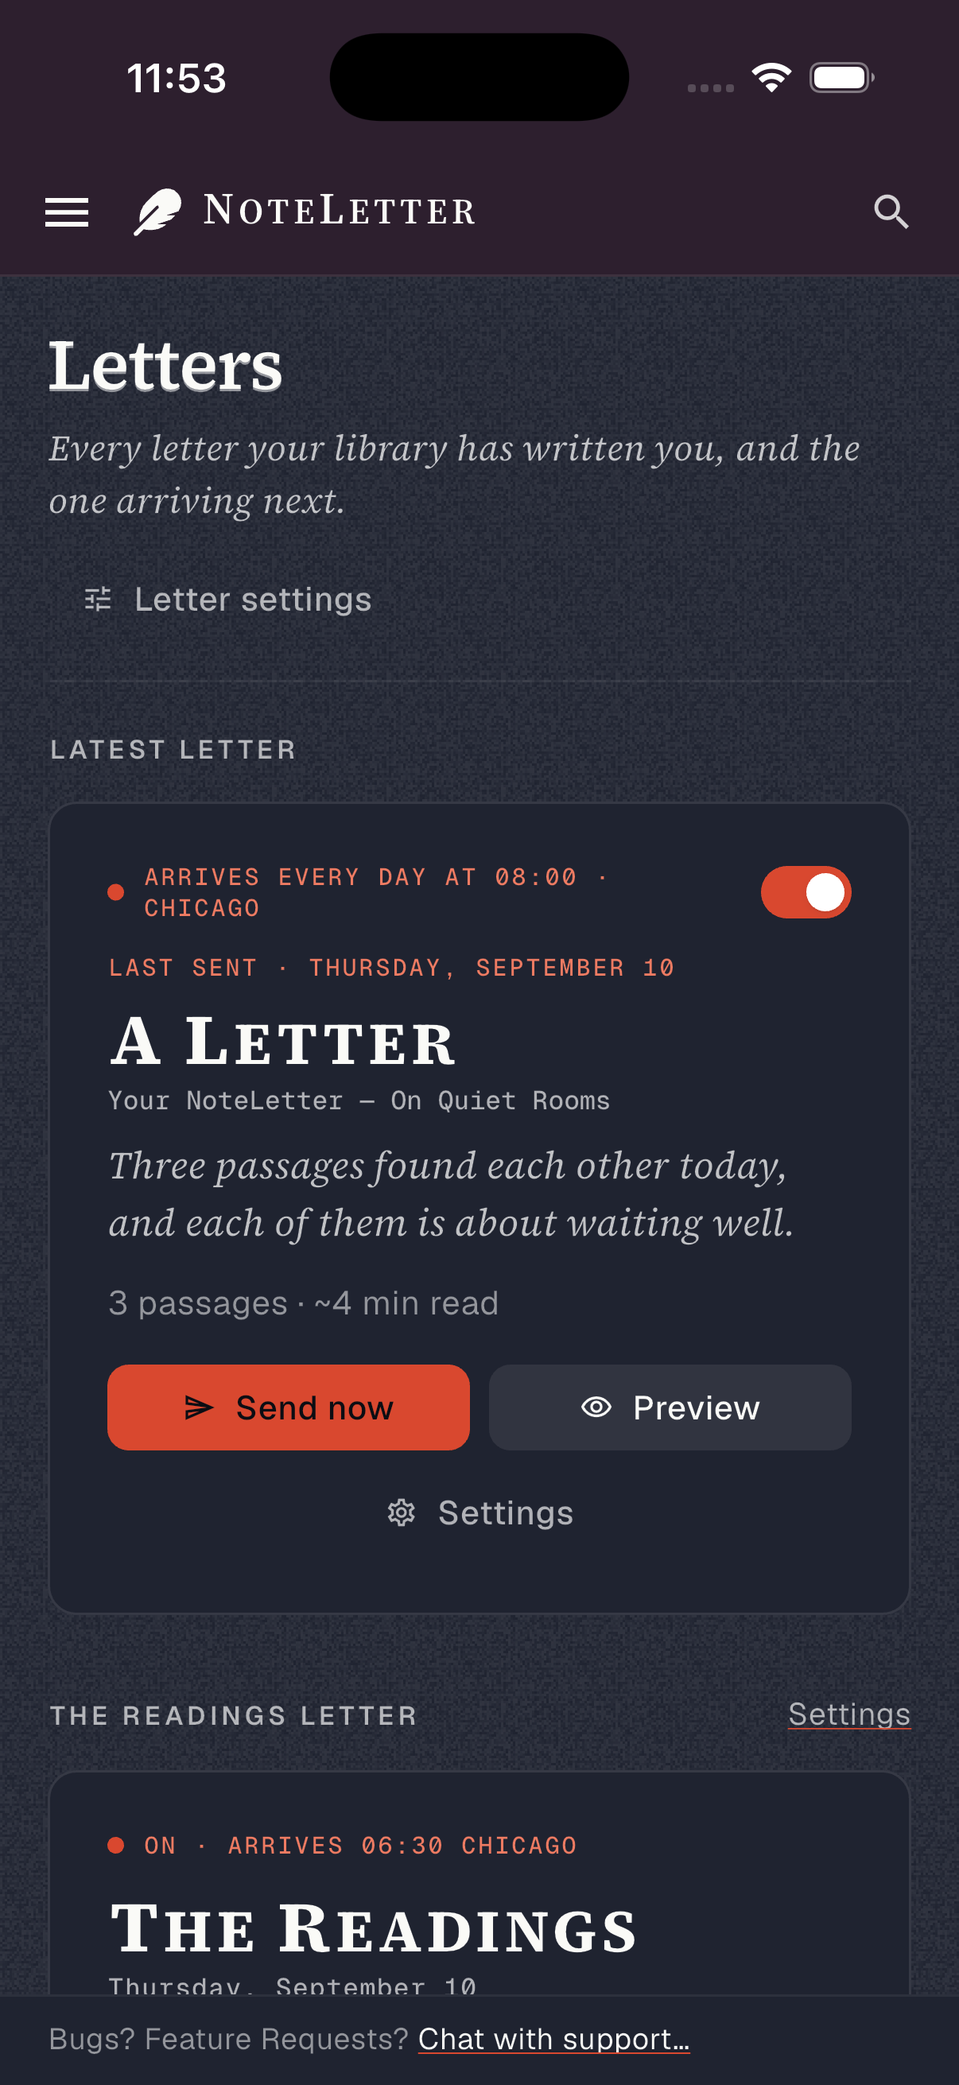
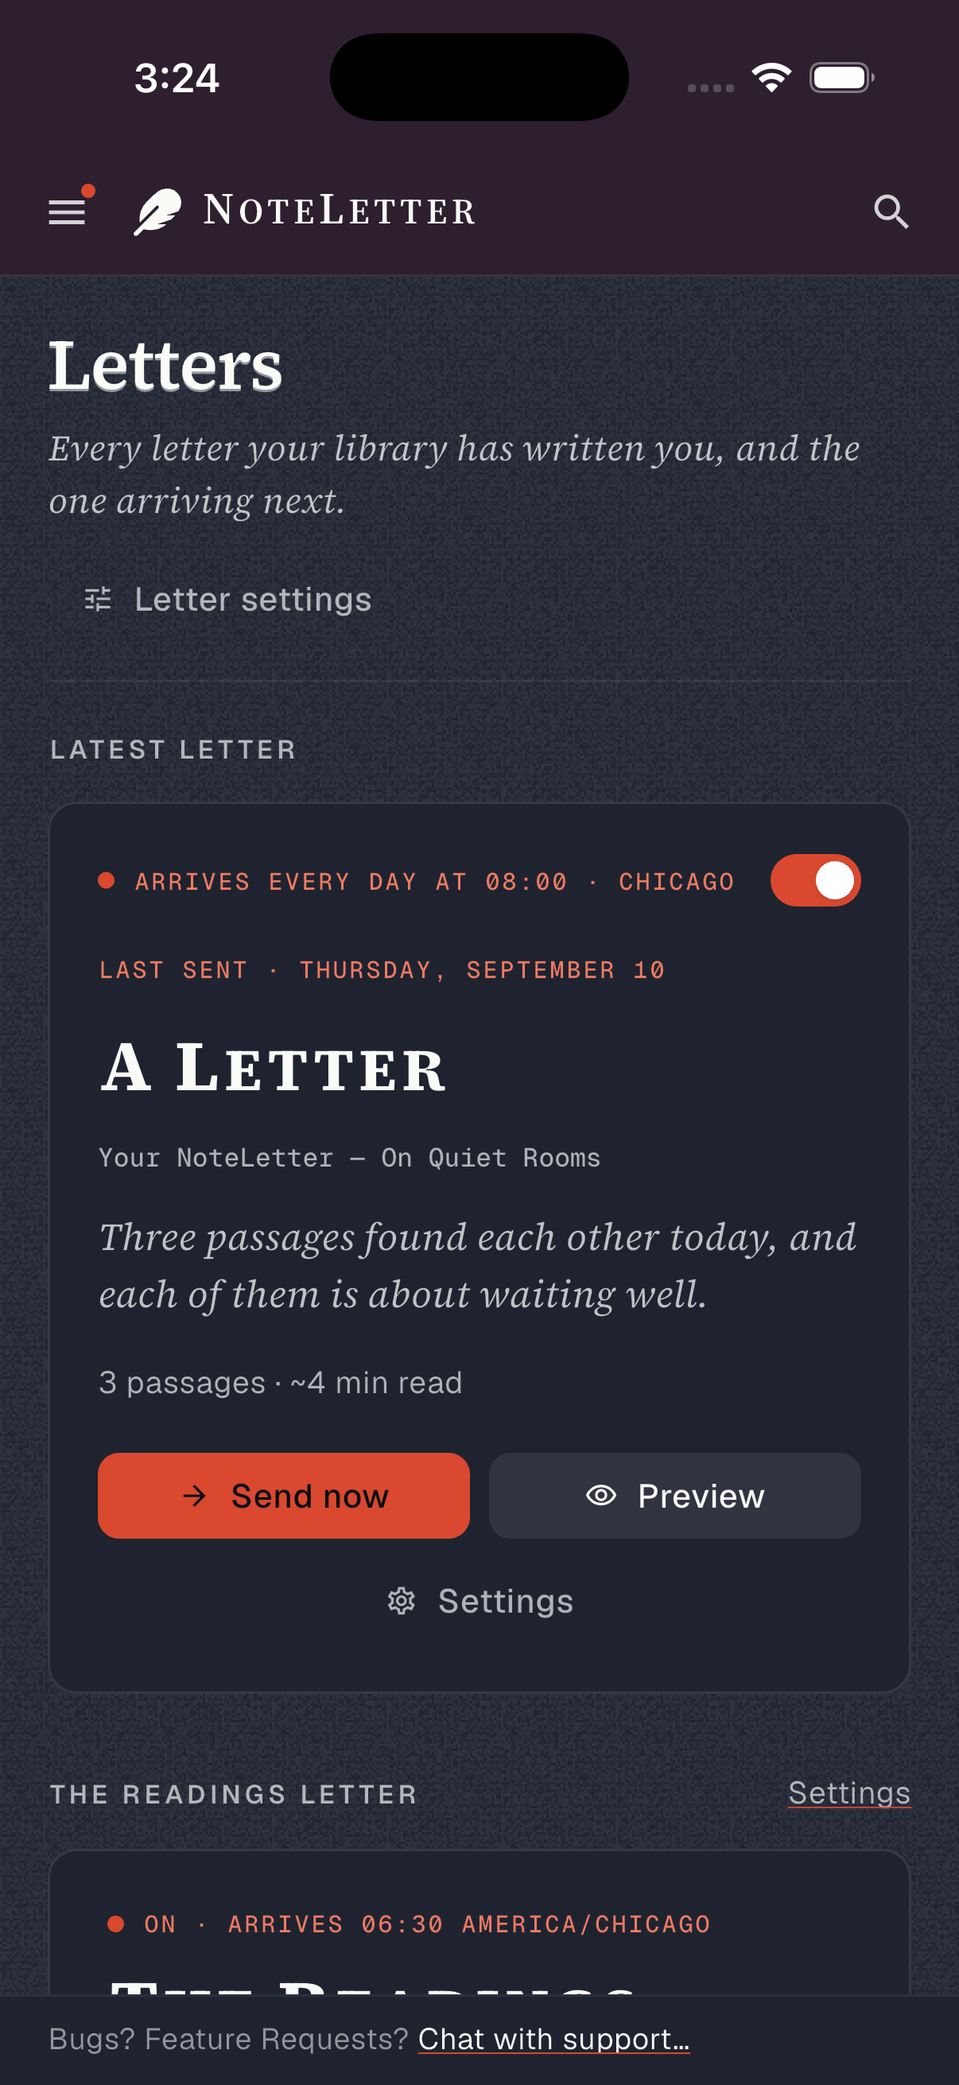
Letters: a sent letter reflows at its own sizes on a phone, and the latest-letter card keeps web's rhythm (F-76 done)
Re-shot over HEAD and compared to web 5413658's phone frames (the brief's
re-check of f417c96):

- letter-reader: f417c96 was right — the ground above the paper is the
  letter's OWN `padding: 34px 20px`, not app ground, in both clients. What did
  not match was scale. KitLetterPaper laid the 640px paper out at 640 and
  fitted it by scaling the page, so on a phone every face and margin sat at
  ~0.6 of the reference's (title 27 on one line where web wraps it at 38;
  margins 12 where web has 20). The host now carries web's own rule,
  `[data-nl-letterhead] > table { table-layout: fixed }` (app-kit.css), and —
  because WKWebView still did not reflow with that rule alone — holds the
  paper to its cell (`width: 100%; max-width: 640px`). The letter now reflows
  at its true sizes. Hosting, not rewriting: no byte of the body changes.
  This also changes letter-settings' preview (same host); that pair is not
  re-committed — its preview placement is an open ruling.
- letters: the latest-letter card read ~14% tight. On web every line in it
  inherits the body's 24px line box; it now does here too, with `.nl-status`'s
  13, the masthead's 12 row gap, `.nl-lede`'s 9/13, the phone grid's 18 and
  `.next-letter`'s phone padding of 20. Every gap measured within 2pt of the
  reference.
- proc-affordances re-shot over this commit: still matches.

The three F-76 pairs are committed with fresh web copies; QUEUE F-76 done.
[…]

diff --git a/lib/pages/letters_page.dart b/lib/pages/letters_page.dart
@@ -216,6 +216,10 @@ class _LettersPageState extends State<LettersPage> {
   }
 }
 
+/// The reference's body line box (theme.css `--lh-base: 24px`), which every
+/// line of the latest-letter card inherits on web.
+const double _lineBox = 24;
+
 /// The latest letter, its schedule and the actions on it (§5.3 hero card).
 class LatestLetterCard extends StatelessWidget {
   final Newsletter? latest;
@@ -267,9 +271,18 @@ class LatestLetterCard extends StatelessWidget {
     final compact =
         MediaQuery.sizeOf(context).width < AppSpacing.compactWidth;
 
+    // Web's card sets every line in the body's 24px line box (theme.css
+    // `--lh-base`, inherited — none of `.nl-status`, `.nl-no` or `.nl-meta`
+    // overrides it) and spaces the parts with `.nl-status`'s 13, the
+    // masthead's 12 gap, `.nl-lede`'s 9/13 and the grid's 18 on a phone. Drawn
+    // at Flutter's natural line heights with 8/12 gaps the card head read ~14%
+    // tighter than the reference (letters pair, 2026-10-07).
     return KitCard(
-      padding: const EdgeInsets.symmetric(
-          horizontal: AppSpacing.s6, vertical: AppSpacing.s6),
+      // `.next-letter` is `24px 26px`, and `padding: 20px` on a phone.
+      padding: compact
+          ? const EdgeInsets.all(20)
+          : const EdgeInsets.symmetric(
+              horizontal: AppSpacing.s6, vertical: AppSpacing.s6),
       child: Column(
         crossAxisAlignment: CrossAxisAlignment.start,
         children: [
@@ -291,21 +304,25 @@ class LatestLetterCard extends StatelessWidget {
             // a bug in the direction that matters.
             KitRowNote(activationHint),
           ],
-          const SizedBox(height: AppSpacing.s3),
+          // `.nl-schedule { margin-bottom: 13px }`.
+          const SizedBox(height: 13),
           if (n?.generatedAt != null) ...[
-            // `.nl-status`: mono 10 caps at 0.1em in `--accent-text`.
+            // `.nl-status`: mono 10 caps at 0.1em in `--accent-text`, on the
+            // 24px line box, `margin-bottom: 13px`.
             Text('Last sent · ${longDate(n!.generatedAt)}'.toUpperCase(),
                 style: KitText.capsLabel(context,
-                    fontSize: 10,
-                    letterSpacing: 0.1,
-                    color: Tokens.of(context).accentText)),
-            const SizedBox(height: AppSpacing.s2),
+                        fontSize: 10,
+                        letterSpacing: 0.1,
+                        color: Tokens.of(context).accentText)
+                    .copyWith(height: _lineBox / 10)),
+            const SizedBox(height: 13),
           ],
           // `.nl-masthead` is flex-wrap (gap 12): on a phone the subject drops
           // under the title whole rather than ellipsising beside it.
+          // Its `gap: 12px` is both axes: the wrapped subject sits 12 under.
           Wrap(
             spacing: AppSpacing.s3,
-            runSpacing: AppSpacing.s1,
+            runSpacing: AppSpacing.s3,
             crossAxisAlignment: WrapCrossAlignment.end,
             children: [
               const KitVersal('A Letter', fontSize: 25),
@@ -313,10 +330,12 @@ class LatestLetterCard extends StatelessWidget {
                 Text(n.subject!,
                     maxLines: 1,
                     overflow: TextOverflow.ellipsis,
-                    style: KitText.capsLabel(context, letterSpacing: 0)),
+                    style: KitText.capsLabel(context, letterSpacing: 0)
+                        .copyWith(height: _lineBox / 11)),
             ],
           ),
-          const SizedBox(height: AppSpacing.s2),
+          // `.nl-lede { margin: 9px 0 13px }`.
+          const SizedBox(height: 9),
           Lede(
             n != null
                 ? (n.lede.isNotEmpty
@@ -334,15 +353,16 @@ class LatestLetterCard extends StatelessWidget {
             height: 24,
             maxWidth: double.infinity,
           ),
+          const SizedBox(height: 13),
           if (passages > 0) ...[
-            const SizedBox(height: AppSpacing.s3),
             // `chunk_ids` names exactly the passages the body holds (4.39.0),
             // so this is counted, not estimated.
             // `.nl-meta`: sans 13 at --fg-muted, not §3's 14 at --fg-subtle.
             Text(
                 '$passages ${passages == 1 ? 'passage' : 'passages'} · '
                 '~${passages + 1} min read',
-                style: KitText.ui(context, color: Tokens.of(context).fgMuted)),
+                style: KitText.ui(context, color: Tokens.of(context).fgMuted)
+                    .copyWith(height: _lineBox / 13)),
           ],
           if (sendError != null) ...[
             const SizedBox(height: AppSpacing.s2),
@@ -351,7 +371,8 @@ class LatestLetterCard extends StatelessWidget {
             const SizedBox(height: AppSpacing.s2),
             KitRowNote(sendMessage!),
           ],
-          const SizedBox(height: AppSpacing.s4),
+          // The grid's gap: 18 on a phone, 26 beside the actions above it.
+          SizedBox(height: compact ? 18 : AppSpacing.s4),
           // `.nl-actions` on a phone (web 9a84288): a row that WRAPS, each
           // button `flex: 1` with its label centred — the three share a line
           // when they fit and the last drops to its own, full width, when
@@ -432,7 +453,8 @@ class _ScheduleRow extends StatelessWidget {
             // on a phone (web 9a84288). A cap of two cut the sentence's
             // timezone to an ellipsis on a 320 card.
             style: KitText.capsLabel(context,
-                color: t.accentText, fontSize: 10, letterSpacing: 0.1),
+                    color: t.accentText, fontSize: 10, letterSpacing: 0.1)
+                .copyWith(height: _lineBox / 10),
           ),
         ),
         if (cfg != null) ...[

diff --git a/lib/widgets/kit/kit_letter.dart b/lib/widgets/kit/kit_letter.dart
@@ -75,14 +75,35 @@ class KitLetterPaper extends StatefulWidget {
   /// No stylesheet of ours: every colour, face and metric in a letter is inline
   /// (ADR-087 forbids a `<style>` block in the body for a second reason — the
   /// plain-text part is a naive tag strip that a `<style>` block survives). The
-  /// viewport meta and the two resets are what make a 640px mail sheet fit a
+  /// viewport meta and the resets are what make a 640px mail sheet fit a
   /// phone instead of scrolling sideways.
+  ///
+  /// `[data-nl-letterhead] > table { table-layout: fixed }` is web's own host
+  /// rule (`.letter-sheet`, app-kit.css): the letter's outer table is
+  /// `width="100%"` around a 640px paper that says `max-width: 100%`, which
+  /// AUTO table layout cannot honour, so the paper stayed 640 wide and this
+  /// host fitted it by scaling the whole page down — every face and margin at
+  /// ~0.63 on a phone, the title on one line where the reference wraps it at
+  /// its real 38px (letter-reader pair, 2026-10-07). Fixed layout gives the
+  /// cell the screen's width and the paper's own max-width then works: the
+  /// letter REFLOWS at its true sizes, as on web. Hosting, not rewriting — no
+  /// byte of the stored body changes.
+  ///
+  /// That rule alone was not enough HERE: re-shot with it, this WKWebView
+  /// still laid the paper out at 640 and fitted it by scaling (Chromium,
+  /// where the reference is photographed, reflows it at 402 with the same
+  /// document). WebKit does not let `max-width: 100%` bound a table whose
+  /// own width is set. So the paper — the one table inside the outer
+  /// table's cell — is held to that cell by the host, at most the 640 the
+  /// letter declares: the same box the reference's rule produces.
   @visibleForTesting
   static String documentFor(String body) => '''
 <!doctype html><html><head><meta charset="utf-8">
 <meta name="viewport" content="width=device-width,initial-scale=1">
 <style>html,body{margin:0;padding:0;background:${_cssHex(_Paper.ground)};-webkit-text-size-adjust:100%}
-img{max-width:100%;height:auto}table{max-width:100%}</style>
+img{max-width:100%;height:auto}table{max-width:100%}
+[data-nl-letterhead]>table{table-layout:fixed}
+[data-nl-letterhead]>table>tbody>tr>td>table{width:100%!important;max-width:640px!important}</style>
 </head><body>$body</body></html>''';
 
   @override

diff --git a/test/kit/kit_smoke_test.dart b/test/kit/kit_smoke_test.dart
@@ -1837,6 +1837,14 @@ void main() {
       // scrolling sideways, and the letter's own frozen ground behind it.
       expect(doc, contains('width=device-width'));
       expect(doc, contains('#FAFAF7'));
+      // …and web's one host rule (`.letter-sheet [data-nl-letterhead] >
+      // table`): without it the 640px paper cannot shrink, and the page was
+      // scaled to fit — every face at ~0.63 of the reference's on a phone.
+      final web = File('../NoteLetter-web/src/styles/app-kit.css')
+          .readAsStringSync();
+      expect(web, contains('.letter-sheet [data-nl-letterhead] > table { table-layout: fixed; }'),
+          reason: "the reference's host rule moved — look again");
+      expect(doc, contains('[data-nl-letterhead]>table{table-layout:fixed}'));
       // …and no font, colour or metric of ours: every one of those is inline
       // in the letter and must win.
       expect(doc, isNot(contains('Source Serif')));

diff --git a/QUEUE.md b/QUEUE.md
@@ -1415,6 +1415,7 @@ a new obligation on a finished screen is a new item.
 - notes: Contract 4.105.0. (a) The reader's last header action is a ghost *Delete* with a trash glyph, for complete/error/skipped documents, opening a §18 KitConfirm: `Delete “{title}”?`, the body naming what is lost (its {n} passages, original file, reading history, its shelves by name) and what is not (letters received, other sources, the shelves; a study program drops its passages at its next session), *Keep it* / *Delete source* (danger). One `Api.deleteDocument` (add it: `fn_delete_document {docId}`); the panel holds until it resolves, a refusal answers inside it, success pops back to the reader's origin. (b) §20.2 Shelf select as a kit widget beside §20 in `kit_shelf_chips.dart` — a trigger (dot + title, or the none label in --fg-muted, chevron) opening the §20.1 panel over every shelf, the chosen one checked, a none row first while nothing is typed, the create row last — and `reshelve_sheet.dart`'s `KitSelect` becomes it (none = Leave unshelved; the create row opens showShelfSheet and the new id becomes the row's choice).
   2026-10-02: built 4790210 (analyze clean, contract+kit 1026 green, confirm_check PASS); device run + the reader pair owed — no emulator this wave.
   2026-10-05: the reader pair was re-shot from 0d329b8; this item's own parts (the ghost Delete with its trash glyph, §20.2's select) are on screen, but the pair does NOT match for other reasons, booked as F-77 — so it is not committed and this stays open until F-77's reader frame matches.
+  2026-10-07: re-shot over 5b0b73e. Delete and its trash glyph, the §20.2 select (reader-shelves, shelf-picker-search — those two pairs MATCH and are committed) are right; the reader pair still does not match, for F-77 (2) and (3) only — not committed, still open.
 
 ## F-74 · Reader — the manuscript's reading controls: Aa, the reading-progress rule, Pick up where you left off, the drop cap
 - status: open
@@ -1443,7 +1444,7 @@ a new obligation on a finished screen is a new item.
 - notes: F-43 respelled these sites into KitText roles without moving a pixel, and found four drifts it did not fix: (1) the cohesive passage body is `.passage .quote` serif 18/30 on the reference, 17/28 here; (2) its `Html` branch sets no family, so stored html renders in the UI SANS while the no-html branch is serif — the manuscript had the same defect (fixed in F-43 by `fontFamily: AppTheme.fontSerif` on the body Style); (3) `.cohesive-passage .pmeta .srctitle` is 14/500, 15/1.2/500 here; (4) `.cohesive-note` is at --fg-subtle, --fg-muted here. Needs a frame of the COHESIVE mode — the `search` pair's query does not reach it.
 
 ## F-76 · Letters and Sources — the reader bar's Copy and Open in email; readings rows are letter rows; the source control's glyph
-- status: open
+- status: done 2026-10-07
 - screen: letter-reader
 - route: /letters
 - spec: spec/screens/letters.md §Composition; spec/screens/sources.md §Document processing; spec/component-kit.md §1.3
@@ -1455,6 +1456,7 @@ a new obligation on a finished screen is a new item.
 - extra_gates: python3 ../NoteLetter-contracts/harness/screenshot_pair_check.py
 - notes: Found owed inside TODO CS-6's 4.98.0 Letter-settings line (web d153111, b51f414 — the latter already closed by F-70's NewsletterNotifier.latest). (1) The reader bar (`.lr-bar`): Copy copies html_body (disabled with no body; Copied; §14.2 under the bar on refusal), Open in email is `mailto:?subject=` (a handoff no mail app takes is said, never swallowed); below ~400px the two keep their glyphs and drop their labels — the reference's own `.lr-actions .btn span { display: none }`, which reaches nothing on web because its labels are not spans. (2) The readings archive is `.archive-list` of `.letter-row.rl-row`: KitLetterRow gains `kind` (`.lr-kind`, the book glyph + READINGS on the accent chip) and `refs` (`.lr-refs`, mono 10.5 at --fg-subtle, wrapping below the compact width). (3) The processing card's source control carries web SourceAffordance's glyph: open_in_new / layers / file.
   2026-10-05: built 06bdce6. proc-affordances MATCHES (committed a8e9ec6). letter-reader and letters did not: a 24pt band of app ground above a letterhead letter, the card's figures at --fg-subtle 14 instead of `.nl-meta`, and the readings card's zone as a city — all three fixed in f417c96, and their re-shoot was stopped by the disk. Still owed: the letter-reader and letters pairs from f417c96 or later.
+  2026-10-07: re-shot over HEAD and compared to web 5413658's phone frames. letter-reader: f417c96's call holds — the ground above the paper is the LETTER's own `padding:34px 20px` (#FAFAF7), not app ground, on both sides. What did NOT match was scale: KitLetterPaper laid the 640px paper out at 640 and fitted it by scaling the page (~0.6: title 27 on one line where web wraps it at 38, 12pt margins vs 20). Fixed by web's host rule (`[data-nl-letterhead]>table{table-layout:fixed}`, app-kit.css) plus, because WKWebView did not reflow with that rule alone, the paper held to its cell (`width:100%; max-width:640px`, !important over the inline width) — the letter now reflows at its true sizes. Residual, web-side: `.letter-sheet` inherits the app's 24px body line box into the letter, so web spaces the folio's two lines 24 apart where the letter itself (and this host, and a mail client) sets them at `normal`. letters: the card head read ~14% tight — its lines now take web's inherited 24px line box, `.nl-status`'s 13, the masthead's 12 row gap, `.nl-lede`'s 9/13, the phone grid's 18 and `padding: 20px`; every gap within 2pt of the reference. proc-affordances re-shot and still matches. All three pairs committed.
 
 ## F-77 · Reader — the parts the 2026-10-05 pairs found: LISTEN stat, a link web has not, the rail's ground, History lands short
 - status: open
@@ -1469,6 +1471,7 @@ a new obligation on a finished screen is a new item.
 - extra_gates: python3 ../NoteLetter-contracts/harness/screenshot_pair_check.py
 - notes: Each read off a pair re-shot from 0d329b8, against web code. (1) The stat cluster has no `— LISTEN` cell; web always draws it (ReaderView.jsx ~692); left out on purpose at reader_page.dart ~929-961 but recorded nowhere (F-55 note 3 booked it). (2) A "How these passages reached you" link under Mark finished (reader_page.dart ~1077) that web does not draw at rest (its toggle is Reading stats inside the Aa popover — F-74). (3) The §19 rail paints --surface full width (kit_section_rail.dart ~73, reader_page.dart ~557): web `.src-rail` is --bg with a right-edge fade on a phone. (4) History lands short: the rail reports Original and the list starts half way down; web gives the last section `min-height: calc(100vh - var(--src-rail-h) - 72px)` (app-source.css ~100); here only a trailing SizedBox. (5) No rule between sections (`.src-section + .src-section`). (6) Glyphs: Ask forum_outlined vs IcoChat, Reorganize account_tree vs IcoText, rail auto_awesome/notes/history vs IcoSparkle/IcoText/IcoClock. (7) Manuscript: the passage mark takes 26pt inside the column (web `.ms-mark` sits in the sheet padding, left -26/-14); table cells 19 vs `.ms-body table` 15. (8) Speed read: the hint row under the stage is absent and recorded nowhere (`Hold to pause & rest` applies on touch). (9) Recipe: ingredients 16 vs 15, a rule under every item (web rules between), caption 14 --fg-subtle vs 12 --fg-muted. (10) Image set: the 3:4 aspect applies to the whole cell, caption included (kit_overlay.dart ~503); `.srcset-frame` is 3:4. Reader pair is also F-73's: F-73's own parts (ghost Delete with trash, §20.2 select) were seen present.
   2026-10-06: (1) and (6) built — LISTEN is drawn as §8's unmeasured dash (the reference reads `audio_seconds`, which nothing writes, so it is the dash there too), and Ask / Reorganize / the Manuscript and History jumps take IcoChat / IcoText / IcoClock as this client draws them elsewhere (chat_bubble_outline, title, schedule). Not re-shot. (2) is blocked on F-74: the reference's only stats toggle is Reading stats inside the Aa popover, which this client does not have, so removing the link would leave the opt-in unreachable. (3) is a page-ground question, not the rail's: the reader sits outside AppLayout on the support shell's --surface, and the rail paints that ground to avoid a band — compare the page grounds before moving the rail. (4) and (5) built — `KitRailSection` (kit §19): a 1px --rule 40 above every section after the first (30 on a phone), the panel 22 under it, the host's key on the box that starts at the rule, and the last section held to `viewport - rail - 72` (`.src-section:last-child`); test/kit/rail_section_test.dart. Owed: the device run's jump tests over it, and the reader-history pair. (10) built — the set gallery's FRAME is 3:4 (`AspectRatio`) with the caption line under it and the grid's extent computed from the tile width (`.srcset-grid` padding 14); test/kit/kit_smoke_test.dart. Owed: the source-set pair, which is also F-82 (1)'s wrong-surface hold. (9) built — ingredients sans 15/26 (was the body's 16), the --rule BETWEEN items (`li + li`, was under every item), the figure caption sans 12 at --fg-muted (was §3's 14 at --fg-subtle); kit_smoke_test. Owed: the recipe pair. (8) built — `KitKeyHint`, and the row says only Hold to pause & rest: this client binds no keys, so the reference's Space and arrow hints would name controls that do nothing. A composition deviation: it belongs in CLAUDE.md §Composition deviations, but that file is at its 750-word cap (747), so it is recorded here and at the site. (7) built — the passage mark sits in the sheet's padding at -26 (-14 where the padding collapses), top/bottom 4, and the text keeps its measure; a manuscript table sets at 15 (`.ms-body table`); dwell_test. Still open: (2) (needs F-74's Aa popover) and (3) (the reader's page ground, --surface here vs --bg on web). Every pair this item lists is owed: no re-shoot this session (disk under 5 GB; the emulator held by other lanes).
+  2026-10-07: every listed hold re-shot over 5b0b73e (frames in the burn-down evidence, flutter-3), compared to web 5413658's phone frames. MATCH, committed: reader-shelves, shelf-picker-search. NOT matching: reader — (2) and (3). reader-history — the hold ends with the rail marking Original and History's head 72 under the rail (its `lastReach`), where web marks History with the rows under the rail. reader-manuscript — no drop cap on the first passage, no `Aa` (F-74), no accent rule above the sheet, the image caption drawn without its figure frame, marks full sage where web's are unfilled, and 22 words where web counts 9. reader-speed-read — the rail scrolls the current jump to its leading edge and clips its glyph; the standfirst omits web's key sentence (8, recorded here). recipe — ingredients sit flush with their eyebrow where web indents the list (and outdents `To finish`). source-set — F-82 (1), two surfaces.
 
 ## F-78 · Ask and Search — passage text keeps its line breaks, the Ask header and composer, the rail overlay, the open result card
 - status: open
